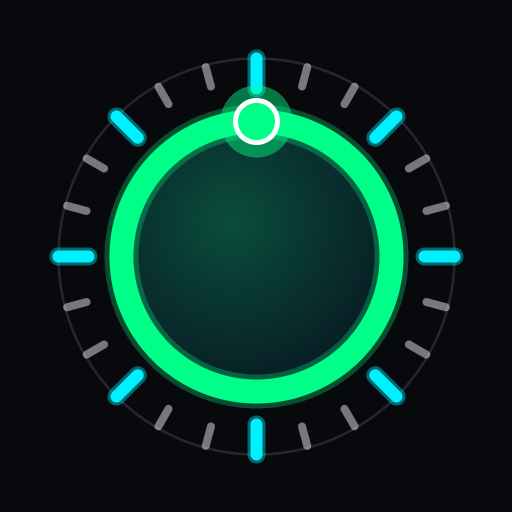
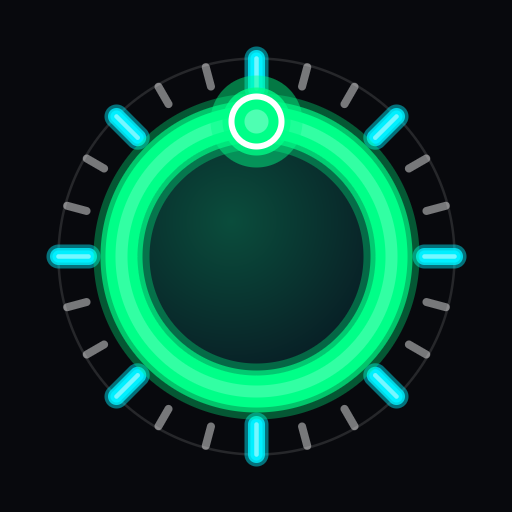
feat: increase green ring thickness to 32px, brighten neon green and cyan pop, and scale draggable circle to 1.56x

Changed region(s): [[0.0938, 0.0938, 0.9062, 0.9062]]

diff --git a/testSyntaxCompatibility.js b/testSyntaxCompatibility.js
@@ -448,8 +448,8 @@ const iconSvgContent = fs.readFileSync(path.resolve(process.cwd(), 'icon.svg'), 
 assert(iconSvgContent.includes('id="innerShimmer"'), 'icon.svg includes mild green-to-blue inner shimmer gradient');
 assert(iconSvgContent.includes('#00f0ff'), 'icon.svg includes light blue tick markers');
 assert(iconSvgContent.includes('#00ff88'), 'icon.svg includes vivid neon green matching actual timer');
-assert(iconSvgContent.includes('stroke-width="24"'), 'icon.svg features elegant thinner 24px green ring');
-assert(iconSvgContent.includes('r="21"'), 'icon.svg features larger drag circle matching timer proportions');
+assert(iconSvgContent.includes('stroke-width="32"'), 'icon.svg features bolder 32px neon green ring');
+assert(iconSvgContent.includes('r="25"'), 'icon.svg features larger drag circle matching timer proportions');
 assert(iconSvgContent.includes('stroke-width="12"'), 'icon.svg includes thicker 12px neon tick markers');
 assert((iconSvgContent.match(/stroke="rgba\(255, 255, 255, 0\.45\)"/g) || []).length === 16, 'icon.svg includes exactly 16 grey tick marks');
 
